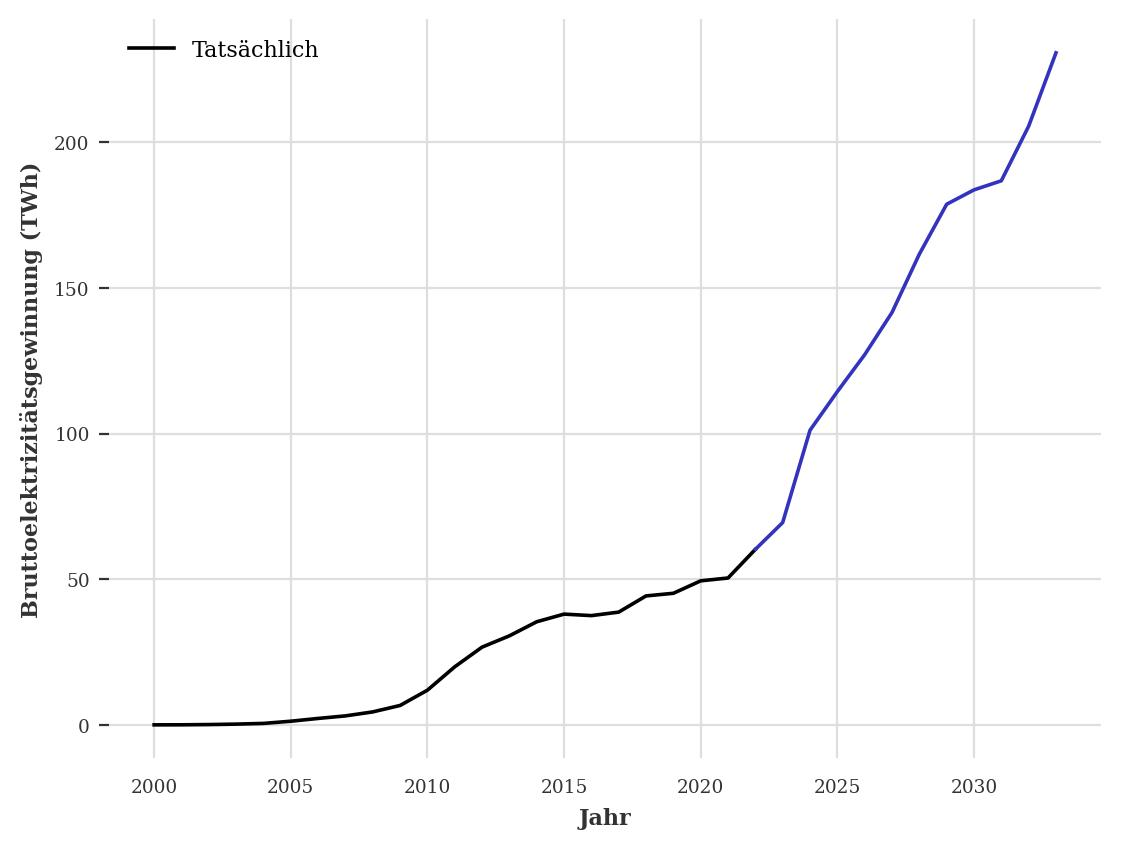
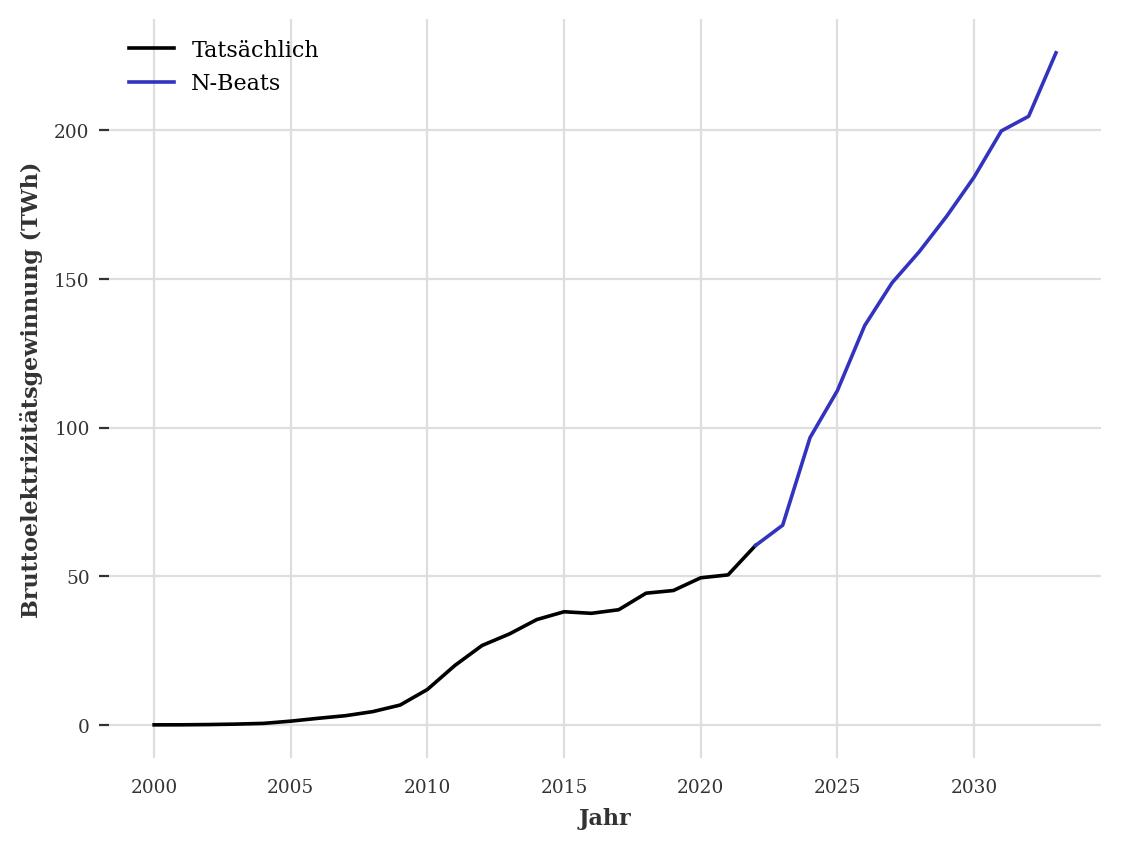
new prediction

diff --git a/runmodels.py b/runmodels.py
@@ -55,13 +55,13 @@ def selected_past_covars():
     return covars
 
 models = [
-    MeanModel("Mittelwert-Modell", target, list(past_covariates_partial_length.values()), list(future_covariates_full.values()), TEST_TRAIN_RATIO_FULL_LENGTH),
+    # MeanModel("Mittelwert-Modell", target, list(past_covariates_partial_length.values()), list(future_covariates_full.values()), TEST_TRAIN_RATIO_FULL_LENGTH),
 ] + [
     RegModel("Lineare Regression", target, list(past_covariates_partial_length.values()), list(future_covariates_partial_length.values()), TEST_TRAIN_RATIO_FULL_LENGTH),
     XGBoostModel("XGBoost", target, list(past_covariates_partial_length.values()), list(future_covariates_partial_length.values()), TEST_TRAIN_RATIO_FULL_LENGTH),
     # for testing use beatsModel, for acutal prediction the ensemble one
     # BeatsModel("N-Beats", target, list(past_covariates_partial_length.values()), list(future_covariates_partial_length.values()), TEST_TRAIN_RATIO_FULL_LENGTH)
-    EnsembleBeatsModel(10, "N-Beats", target, list(past_covariates_partial_length.values()), list(future_covariates_partial_length.values()), TEST_TRAIN_RATIO_FULL_LENGTH),
+    EnsembleBeatsModel(20, "N-Beats", target, list(past_covariates_partial_length.values()), list(future_covariates_partial_length.values()), TEST_TRAIN_RATIO_FULL_LENGTH),
     # EnsembleBeatsModel may not be at index 0 - does not have all ModelTemplate properties
 ]
 
@@ -72,10 +72,10 @@ def measureModel(m, prediction):
 
 def getColors():
     return [
-        (0.75, 0.2, 0.2),
         (0.45, 0.15, 0.45),
         (0.2, 0.7, 0.2),
         (0.2, 0.2, 0.75),
+        (0.75, 0.2, 0.2),
         (0.25, 0.5, 0.5),
         (0.5, 0.375, 0.375),
         (0.5, 0.375, 0.25),
@@ -141,7 +141,7 @@ if __name__ == "__main__":
 
         plt.plot(model.target_full.pd_series(), label="Tatsächlich")
         # plt.plot(testpred, label=model.name, color=c)
-        plt.plot(pred, color=c)
+        plt.plot(pred, color=c, label=model.name)
         plt.xlabel("Jahr")
         plt.ylabel("Bruttoelektrizitätsgewinnung (TWh)")
         plt.legend()

diff --git a/pvShareEnergyProduction.py b/pvShareEnergyProduction.py
@@ -32,6 +32,9 @@ dfConsumption = dfConsumption.loc[:, ["Zeit", "Netzlast"]]
 print(dfProduction)
 print(dfConsumption)
 
+print(dfProduction.shape)
+print(dfConsumption.shape)
+
 merged_df = pd.merge(dfProduction, dfConsumption, on="Zeit")
 rangeList = []
 
